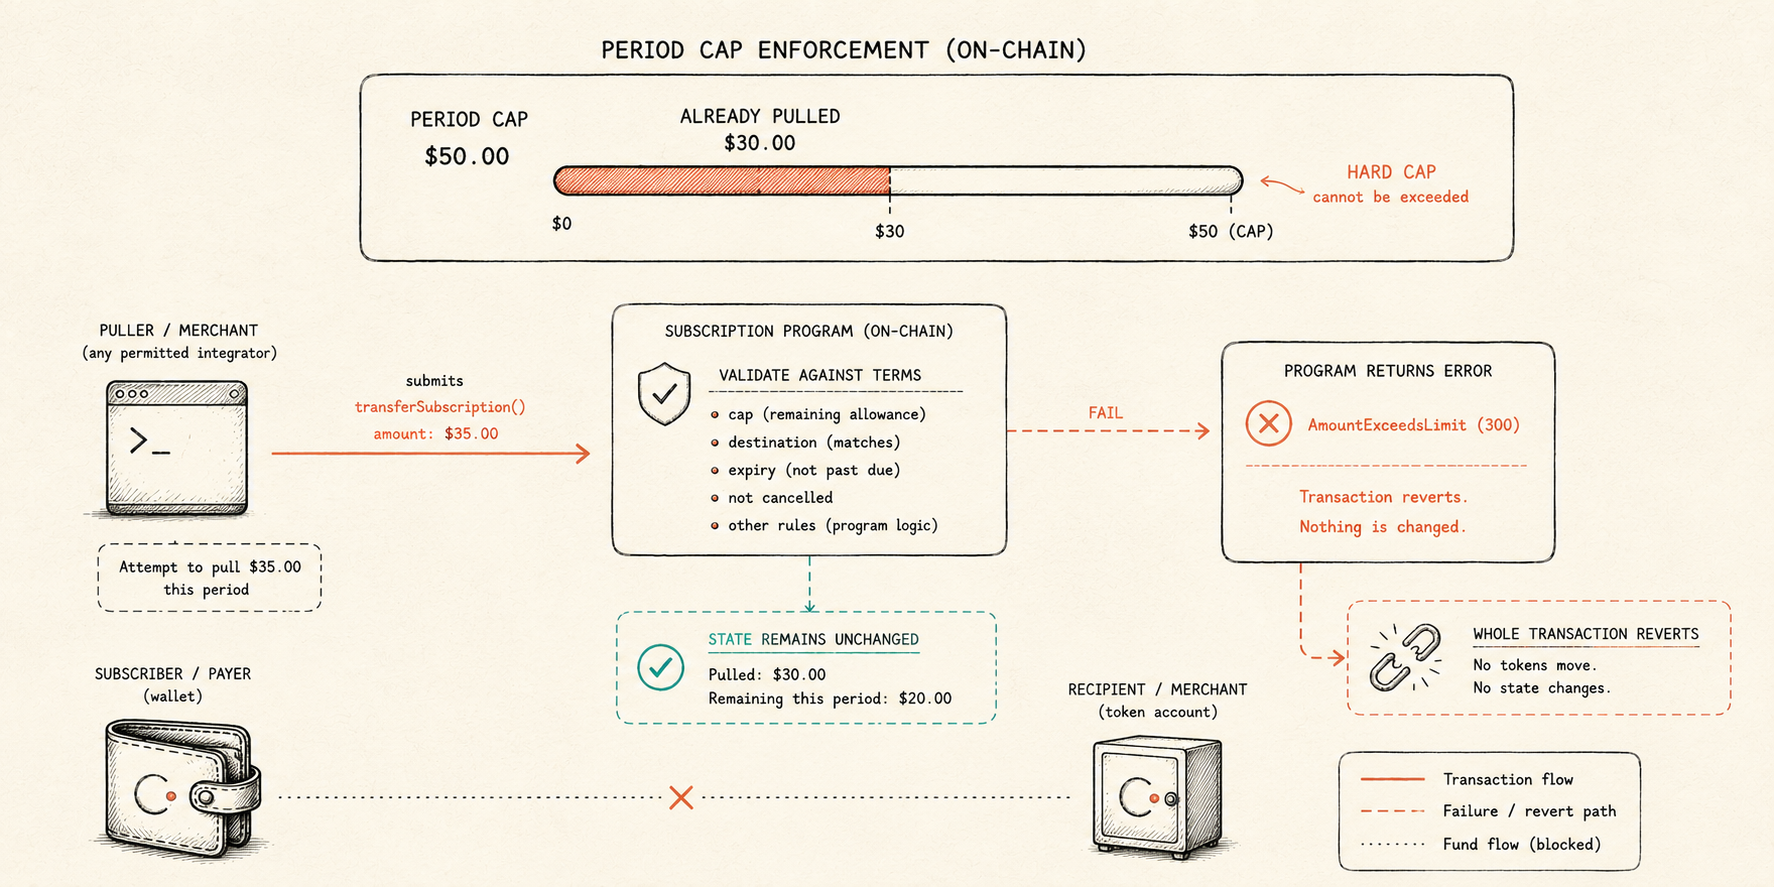
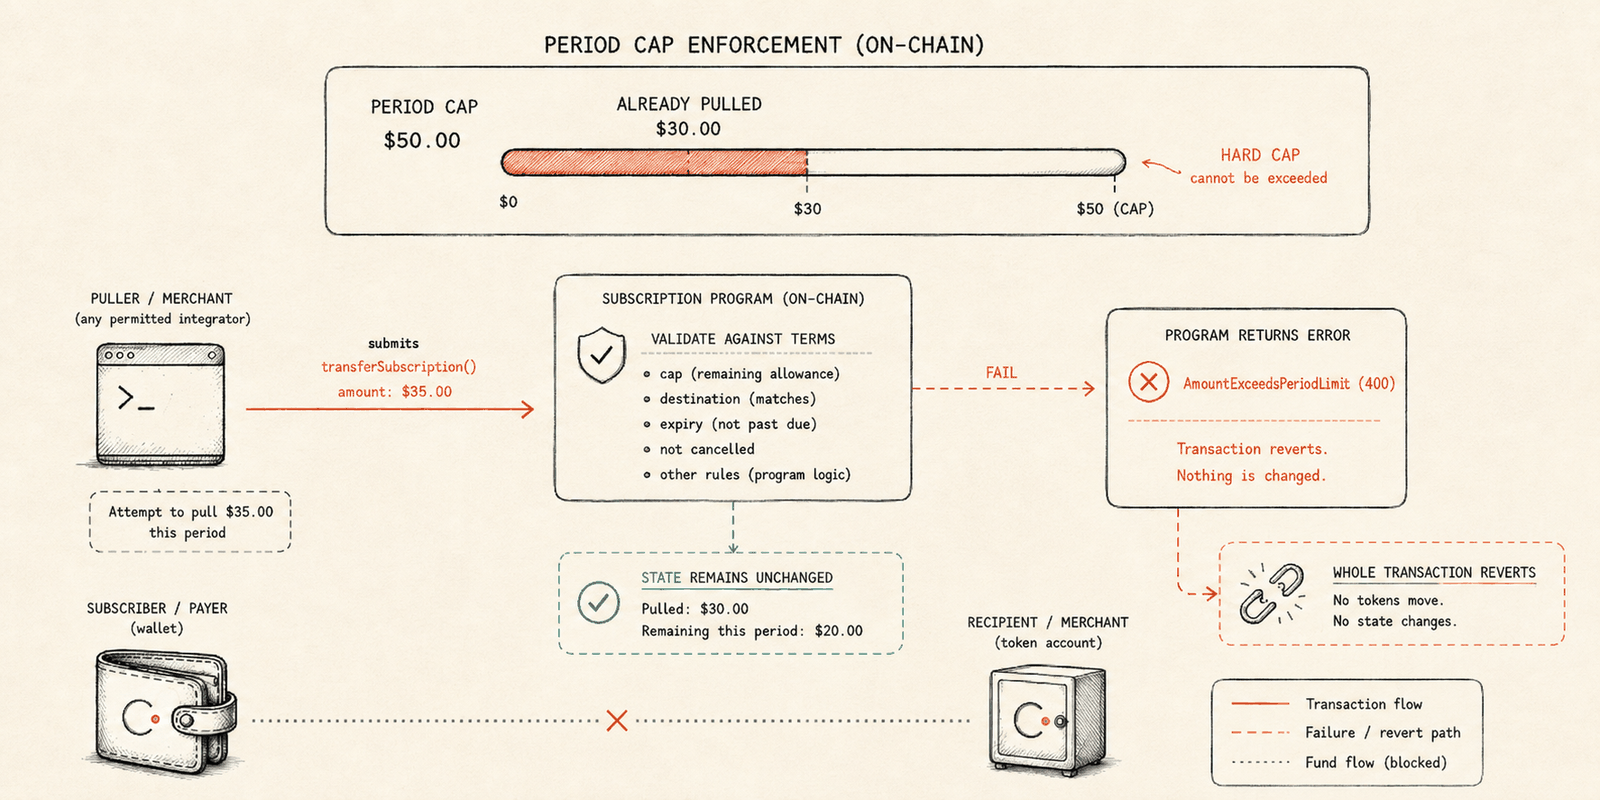
Swap in corrected diagrams (a2/a3/a4) + add CADD-status caption under c4
- a3: 'per (user, mint)'; a4: 'AmountExceedsPeriodLimit (400)'; a2: drop
  'paper wallet' — optimized to ~1MB/1600px (crisp for click-zoom).
- c4: caption noting CADD is live on Base/Ethereum/Tempo but not yet on Solana
  (as of June 22, 2026; Solana planned, no date) — verified via current sources.

diff --git a/src/content/posts/canada-stablecoin-subscriptions.md b/src/content/posts/canada-stablecoin-subscriptions.md
@@ -116,6 +116,8 @@ The same primitive is the natural fit for the newest spender on the block: AI ag
 
 ![The opportunity, as a stack: a CAD-native subscription rail (allowances, recurring payments, billing logic) atop Solana, settling in CADD — built for Canada, not yet built.](/img/c4.png)
 
+*As of June 22, 2026, CADD is live on Base, Ethereum, and Tempo — **not yet on Solana**. A Solana deployment is planned, with no date announced. The stack above is the opportunity, not a shipped product.*
+
 Walk back through the holes and notice something: the biggest one is not a protocol problem. It's a missing *company*.
 
 The authorization layer is live, audited, and free to build on. What no one operates is the **billing-ops layer** — the service that turns a raw on-chain primitive into something a coffee merchant or an invoicing platform can actually run a business on. Concretely, it would: